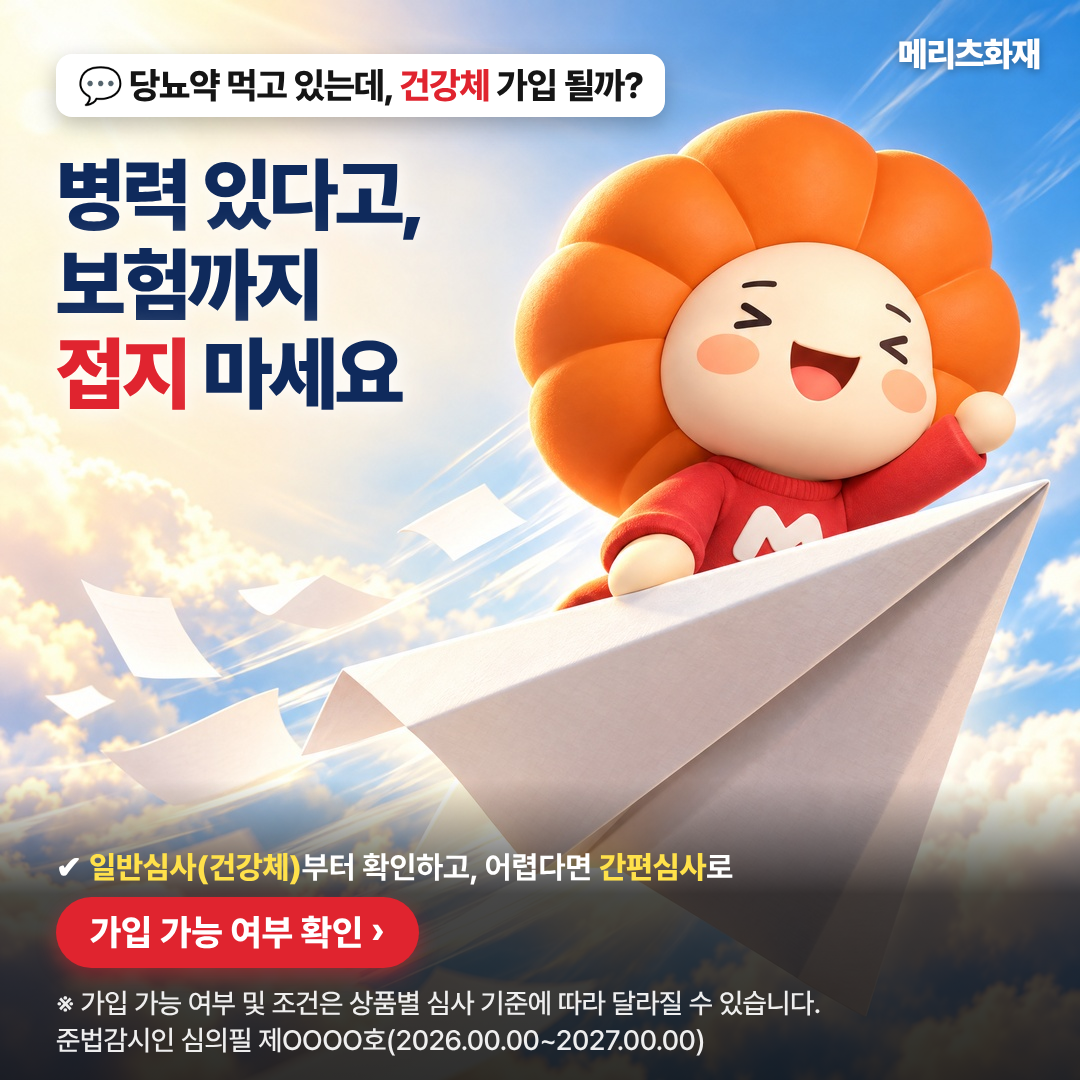
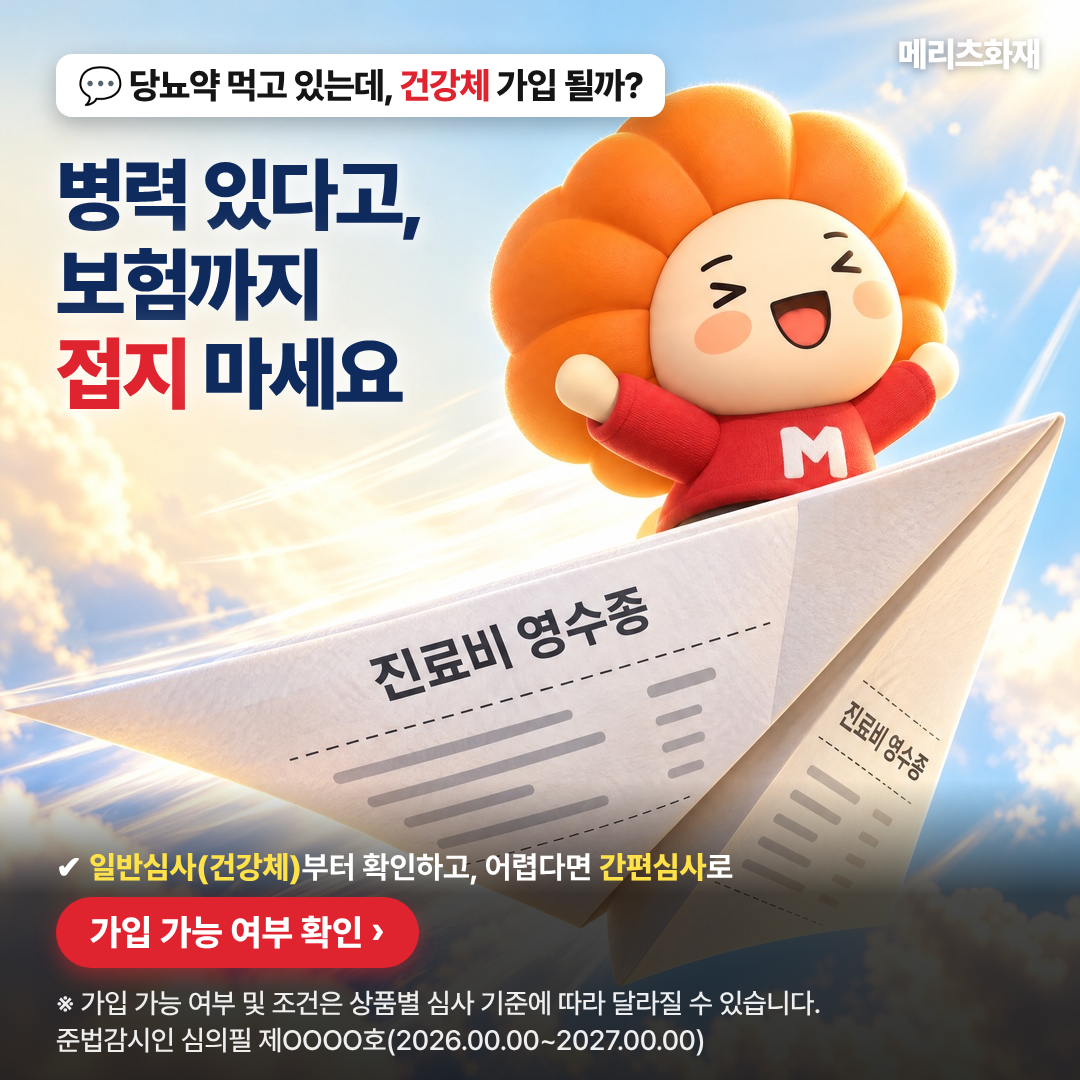
Revise 2B (myth stamp) and 2C (receipt paper plane) Google ads
Claude-Session: https://claude.ai/code/session_013e8rDmejoULvKZjUJrMpP5

diff --git a/creatives/google_square_2026-11-06/src/m2c.html b/creatives/google_square_2026-11-06/src/m2c.html
@@ -1,0 +1,29 @@
+<!doctype html><html><head><meta charset="utf-8"><style>
+@font-face{font-family:P;src:url(fontp/Pretendard-Black.otf);font-weight:900}
+@font-face{font-family:P;src:url(fontp/Pretendard-ExtraBold.otf);font-weight:800}
+@font-face{font-family:P;src:url(fontp/Pretendard-Bold.otf);font-weight:700}
+@font-face{font-family:P;src:url(fontp/Pretendard-SemiBold.otf);font-weight:600}
+@font-face{font-family:P;src:url(fontp/Pretendard-Medium.otf);font-weight:500}
+*{margin:0;padding:0;box-sizing:border-box}
+#a{position:relative;width:1080px;height:1080px;overflow:hidden;font-family:P;color:#151515}
+#a>img{position:absolute;inset:0;width:100%;height:100%}
+.brand{position:absolute;right:40px;top:34px;font-weight:900;font-size:34px;color:#E0242F;letter-spacing:-1px;text-shadow:0 0 12px rgba(255,255,255,.9)}
+.chip{position:absolute;left:56px;top:40px;background:#E0242F;color:#fff;font-weight:800;font-size:30px;padding:8px 20px;border-radius:999px;transform:rotate(-3deg);box-shadow:0 6px 16px rgba(0,0,0,.25)}
+.hl{position:absolute;left:56px;font-weight:900;letter-spacing:-3px;line-height:1.12}
+.hl em{font-style:normal;color:#E0242F}
+.hl.w{color:#fff;text-shadow:0 4px 18px rgba(0,0,0,.55)}
+.hl.w em{color:#FFE14A}
+.hl.k{text-shadow:0 0 18px rgba(255,255,255,.95),0 0 36px rgba(255,255,255,.8)}
+.sub{position:absolute;left:56px;font-weight:700;font-size:34px;letter-spacing:-1px;background:rgba(255,255,255,.92);padding:8px 16px;border-radius:12px;box-shadow:0 6px 16px rgba(0,0,0,.18)}
+.band{position:absolute;left:0;right:0;bottom:0;height:250px;background:linear-gradient(rgba(0,0,0,0),rgba(0,0,0,.72) 38%,rgba(0,0,0,.82))}
+.cta{position:absolute;left:56px;bottom:112px;background:#E0242F;color:#fff;font-weight:800;font-size:36px;padding:14px 34px;border-radius:999px;box-shadow:0 8px 20px rgba(224,36,47,.45)}
+.pts{position:absolute;left:56px;right:40px;color:#fff;font-weight:700;font-size:31px;line-height:1.45}
+.pts b{color:#FFE14A;font-weight:800}
+.disc{position:absolute;left:56px;right:40px;bottom:22px;color:rgba(255,255,255,.92);font-weight:500;font-size:28px;line-height:1.3;letter-spacing:-.5px}
+.card{position:absolute;font-weight:900;color:#1a1a1a;text-align:center;line-height:1.18;letter-spacing:-1.5px}
+</style></head><body><div id="a"><img src="m2c_1080.jpg"><div class="brand" style="color:#fff;text-shadow:0 2px 8px rgba(0,0,0,.35)">메리츠화재</div>
+<div style="position:absolute;left:56px;top:54px;background:#fff;color:#151515;font-weight:800;font-size:36px;letter-spacing:-1px;padding:10px 22px;border-radius:16px;box-shadow:0 8px 22px rgba(0,0,0,.25)">💬 당뇨약 먹고 있는데, <span style="color:#E0242F">건강체</span> 가입 될까?</div>
+<div class="hl" style="top:150px;font-size:80px;color:#0F2A5C;text-shadow:0 0 18px rgba(255,255,255,.95),0 0 40px rgba(255,255,255,.9)">병력 있다고,<br>보험까지<br><em>접지</em> 마세요</div>
+<div class="band" style="height:300px"></div>
+<div class="pts" style="bottom:190px">✔ <b>일반심사(건강체)</b>부터 확인하고, 어렵다면 <b>간편심사</b>로</div>
+<div class="cta">가입 가능 여부 확인 ›</div><div class="disc">※ 가입 가능 여부 및 조건은 상품별 심사 기준에 따라 달라질 수 있습니다.<br>준법감시인 심의필 제OOOO호(2026.00.00~2027.00.00)</div></div></body></html>

diff --git a/creatives/google_square_2026-11-06/src/m2b.html b/creatives/google_square_2026-11-06/src/m2b.html
@@ -1,0 +1,29 @@
+<!doctype html><html><head><meta charset="utf-8"><style>
+@font-face{font-family:P;src:url(fontp/Pretendard-Black.otf);font-weight:900}
+@font-face{font-family:P;src:url(fontp/Pretendard-ExtraBold.otf);font-weight:800}
+@font-face{font-family:P;src:url(fontp/Pretendard-Bold.otf);font-weight:700}
+@font-face{font-family:P;src:url(fontp/Pretendard-SemiBold.otf);font-weight:600}
+@font-face{font-family:P;src:url(fontp/Pretendard-Medium.otf);font-weight:500}
+*{margin:0;padding:0;box-sizing:border-box}
+#a{position:relative;width:1080px;height:1080px;overflow:hidden;font-family:P;color:#151515}
+#a>img{position:absolute;inset:0;width:100%;height:100%}
+.brand{position:absolute;right:40px;top:34px;font-weight:900;font-size:34px;color:#E0242F;letter-spacing:-1px;text-shadow:0 0 12px rgba(255,255,255,.9)}
+.chip{position:absolute;left:56px;top:40px;background:#E0242F;color:#fff;font-weight:800;font-size:30px;padding:8px 20px;border-radius:999px;transform:rotate(-3deg);box-shadow:0 6px 16px rgba(0,0,0,.25)}
+.hl{position:absolute;left:56px;font-weight:900;letter-spacing:-3px;line-height:1.12}
+.hl em{font-style:normal;color:#E0242F}
+.hl.w{color:#fff;text-shadow:0 4px 18px rgba(0,0,0,.55)}
+.hl.w em{color:#FFE14A}
+.hl.k{text-shadow:0 0 18px rgba(255,255,255,.95),0 0 36px rgba(255,255,255,.8)}
+.sub{position:absolute;left:56px;font-weight:700;font-size:34px;letter-spacing:-1px;background:rgba(255,255,255,.92);padding:8px 16px;border-radius:12px;box-shadow:0 6px 16px rgba(0,0,0,.18)}
+.band{position:absolute;left:0;right:0;bottom:0;height:250px;background:linear-gradient(rgba(0,0,0,0),rgba(0,0,0,.72) 38%,rgba(0,0,0,.82))}
+.cta{position:absolute;left:56px;bottom:112px;background:#E0242F;color:#fff;font-weight:800;font-size:36px;padding:14px 34px;border-radius:999px;box-shadow:0 8px 20px rgba(224,36,47,.45)}
+.pts{position:absolute;left:56px;right:40px;color:#fff;font-weight:700;font-size:31px;line-height:1.45}
+.pts b{color:#FFE14A;font-weight:800}
+.disc{position:absolute;left:56px;right:40px;bottom:22px;color:rgba(255,255,255,.92);font-weight:500;font-size:28px;line-height:1.3;letter-spacing:-.5px}
+.card{position:absolute;font-weight:900;color:#1a1a1a;text-align:center;line-height:1.18;letter-spacing:-1.5px}
+</style></head><body><div id="a"><img src="m2b_1080.jpg"><div class="brand" style="color:#fff;text-shadow:0 2px 8px rgba(0,0,0,.35)">메리츠화재</div>
+<div class="hl" style="top:64px;font-size:80px;color:#0F2A5C;text-shadow:0 0 18px rgba(255,255,255,.95),0 0 40px rgba(255,255,255,.9)">약 먹으면 보험 끝?<br>그거 <em>오해</em>예요!</div>
+<div style="position:absolute;left:56px;top:270px;background:#fff;color:#151515;font-weight:800;font-size:36px;letter-spacing:-1px;padding:10px 22px;border-radius:16px;box-shadow:0 8px 22px rgba(0,0,0,.25)">💬 당뇨약 먹고 있는데, <span style="color:#E0242F">건강체</span> 가입 될까?</div>
+<div class="band" style="height:200px"></div>
+
+<div class="cta" style="bottom:104px;font-size:32px;padding:12px 30px">1분 보장분석 ›</div><div class="disc" style="font-size:27px">※ 간편보험은 일반심사 상품보다 보험료가 높을 수 있으며, 심사 결과에 따라<br>가입이 제한될 수 있습니다. 준법감시인 심의필 제OOOO호</div></div></body></html>
